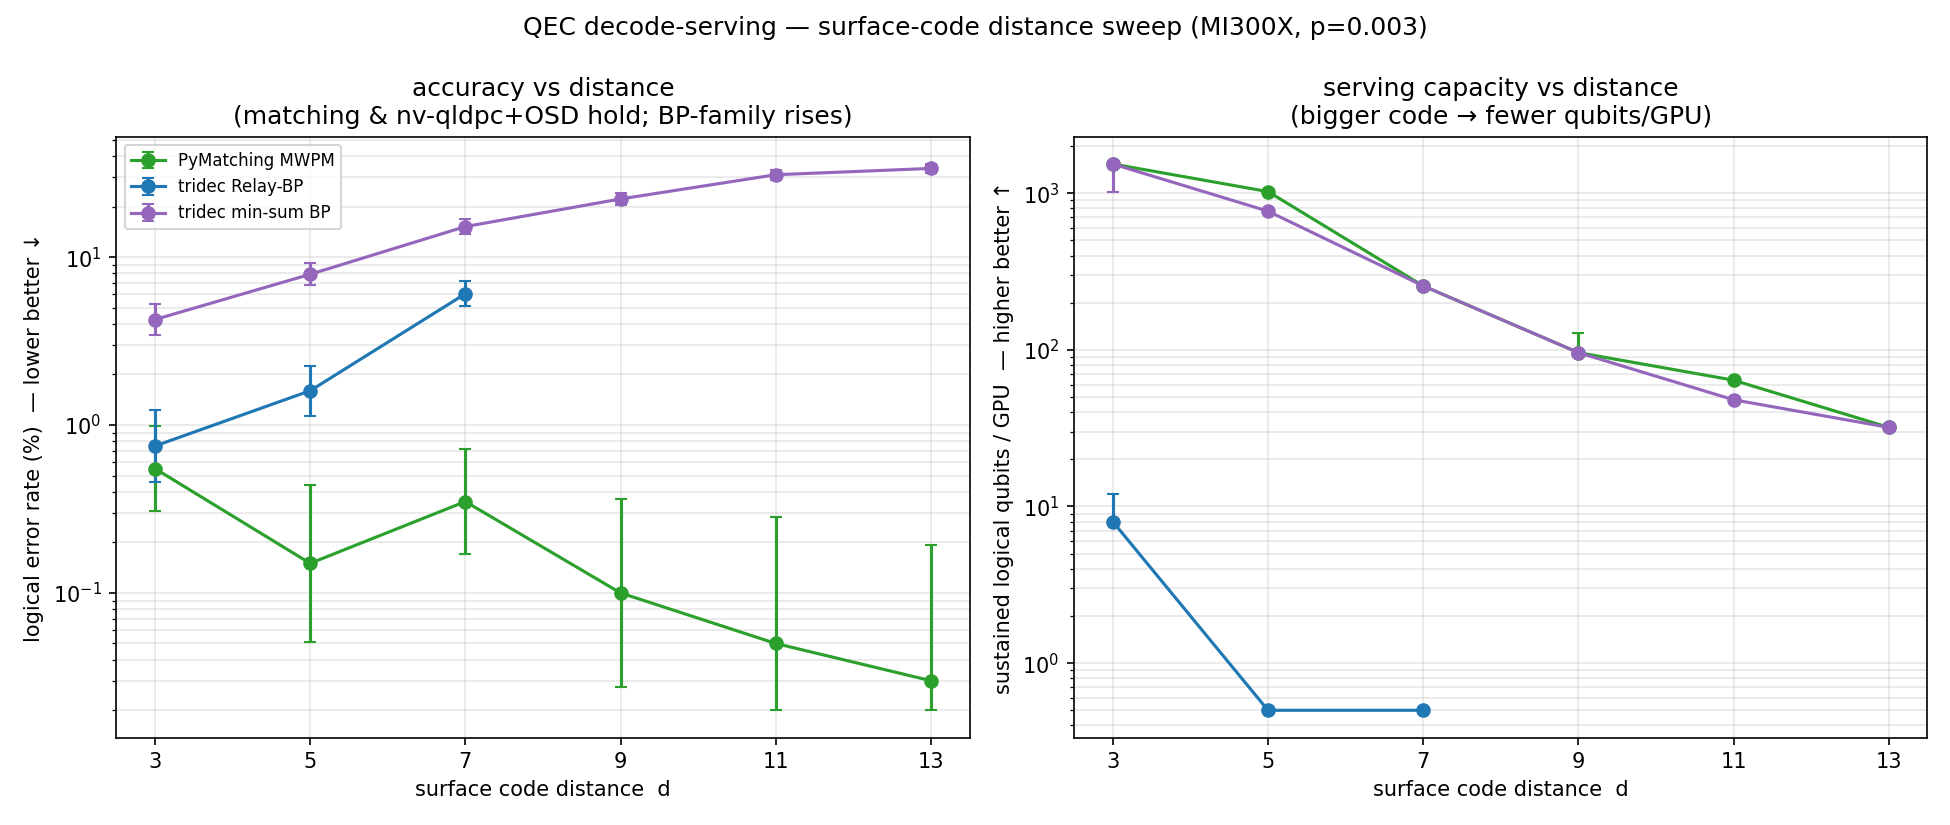
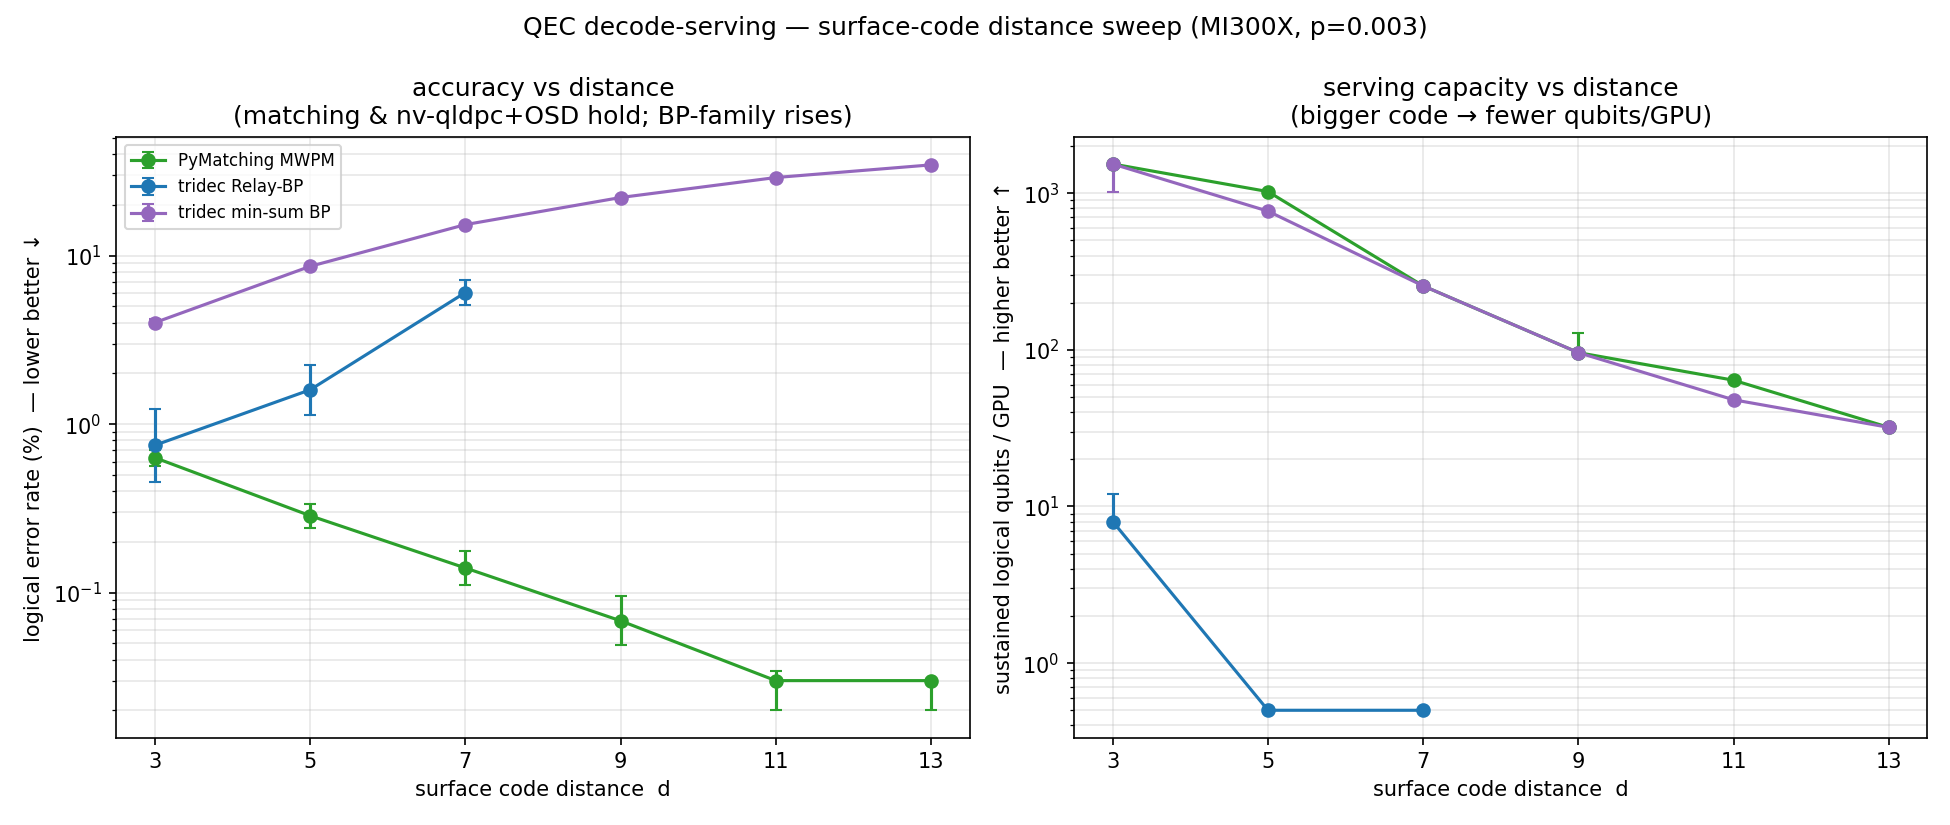
50k-shot accuracy ladder + device-max probe (MI300X); correct the 192GB overclaim
- High-shot (50k) surface accuracy d=3..13 on MI300X: the 2000-shot noise is gone,
  curves are clean-monotonic. PyMatching 0.632/0.286/0.140/0.068/0.018/0.010%
  (each ~halves -- proper threshold; the old d=7 "0.35%" wiggle was noise);
  min-sum BP 4.01/8.66/15.3/22.2/29.2/34.65%. At d=13 matching = 5/50000 = 0.010%,
  ~3500x lower than BP. Merged into results_mi300x.json (LER+CI; capacity kept);
  benchmark_distance_mi300x.png regenerated.
- Device-max probe: MI300X walls at d=15 with a Triton[HIP] "invalid argument" --
  a tridec BP KERNEL limit, NOT memory (d=13 = 2184 detectors, nowhere near
  192 GB). Corrected the README's "exploiting 192 GB" overclaim: d=13 fits either
  GPU; d>=9 H200 coverage is a TODO not a capability limit, and the real ceiling
  is the kernel.
- Helper scripts (hishot/dist_extend/window2/fleet_extra) now write platform-tagged
  outputs (TRIDEC_PLAT); max_explore.py added.

diff --git a/max_explore.py b/max_explore.py
@@ -1,0 +1,44 @@
+"""Device-max: push surface distance upward until the box hits a wall (GPU OOM on
+the BP lane, or impractical wall-time), to find each accelerator's ceiling and
+where the MI300X's 192 GB pulls ahead of the H200's 141 GB. matching=CPU reference;
+BP=GPU (chunked) is the memory-bound lane that decides the GPU ceiling."""
+import os, json, time, traceback, numpy as np, stim
+os.environ.setdefault("TRIDEC_FIX", "/workspace/bench/fixtures/")
+from qecserve_bench import tridec_entry, pymatching_entry
+
+PLAT = os.environ.get("TRIDEC_PLAT", "gpu")
+SHOTS, P, CHUNK, TIME_CAP = 4000, 0.003, 2048, 240
+rows = []
+for d in range(13, 36, 2):                       # 13,15,...,35
+    t0 = time.perf_counter()
+    try:
+        sc = stim.Circuit.generated("surface_code:rotated_memory_z", distance=d, rounds=d,
+                after_clifford_depolarization=P, after_reset_flip_probability=P,
+                before_measure_flip_probability=P, before_round_data_depolarization=P)
+        det, obs = sc.compile_detector_sampler(seed=0).sample(SHOTS, separate_observables=True)
+        det = np.asarray(det, bool); obs = np.asarray(obs, bool)
+        plain = sc.detector_error_model(decompose_errors=False)
+        row = {"d": d, "detectors": int(det.shape[1])}
+        m = pymatching_entry(sc.detector_error_model(decompose_errors=True))
+        pm = np.asarray(m.decoder.decode_batch(np.ascontiguousarray(det)))
+        row["matching_ler"] = float(np.any(pm != obs, axis=1).mean())
+        bp = tridec_entry(plain, "bp"); fails = 0
+        for i in range(0, len(det), CHUNK):
+            p = np.asarray(bp.decoder.decode_batch(np.ascontiguousarray(det[i:i+CHUNK])))
+            fails += int(np.any(p != obs[i:i+CHUNK], axis=1).sum())
+        row["bp_ler"] = fails / len(det)
+        row["sec"] = round(time.perf_counter() - t0, 1)
+        print(f"d={d:2d} dets={row['detectors']:>6} matching {row['matching_ler']*100:6.3f}% "
+              f"bp {row['bp_ler']*100:6.2f}%  ({row['sec']}s)", flush=True)
+        rows.append(row)
+        if row["sec"] > TIME_CAP:
+            print(f"d={d} exceeded {TIME_CAP}s wall -> impractical, stopping.", flush=True); break
+    except Exception as ex:
+        msg = f"{type(ex).__name__}: {str(ex)[:120]}"
+        print(f"d={d} WALL HIT: {msg}", flush=True)
+        rows.append({"d": d, "error": msg}); break
+
+maxd = max((r["d"] for r in rows if "error" not in r), default=None)
+json.dump({"plat": PLAT, "max_d_reached": maxd, "rows": rows},
+          open(f"/workspace/bench/results_maxd_{PLAT}.json", "w"), indent=2)
+print(f"MAX d reached on {PLAT}: {maxd}")

diff --git a/hishot_dist.py b/hishot_dist.py
@@ -1,0 +1,37 @@
+"""Publication-grade accuracy: re-run the surface distance ladder (d=3..13) at
+50k shots for PyMatching + tridec min-sum BP, to tighten the Wilson CIs that were
+single-digit-failure thin at 2000 shots. Chunked decode (8192) so big batches fit.
+LER is config-independent, so this is the clean accuracy receipt; capacity numbers
+(separate axis) are unaffected."""
+import os, json, numpy as np, stim
+os.environ.setdefault("TRIDEC_FIX", "/workspace/bench/fixtures/")
+from qecserve_bench import tridec_entry, pymatching_entry
+from tridec.validation import wilson_ci
+
+SHOTS, P, CHUNK = 50000, 0.003, 8192
+PLAT = os.environ.get("TRIDEC_PLAT", "mi300x")
+
+def acc(e, det, obs):
+    fails = 0
+    for i in range(0, len(det), CHUNK):
+        p = np.asarray(e.decoder.decode_batch(np.ascontiguousarray(det[i:i+CHUNK])))
+        fails += int(np.any(p != obs[i:i+CHUNK], axis=1).sum())
+    lo, hi = wilson_ci(fails, len(det))
+    return fails, fails / len(det), [lo, hi]
+
+out = []
+for d in [3, 5, 7, 9, 11, 13]:
+    sc = stim.Circuit.generated("surface_code:rotated_memory_z", distance=d, rounds=d,
+            after_clifford_depolarization=P, after_reset_flip_probability=P,
+            before_measure_flip_probability=P, before_round_data_depolarization=P)
+    det, obs = sc.compile_detector_sampler(seed=0).sample(SHOTS, separate_observables=True)
+    det = np.asarray(det, bool); obs = np.asarray(obs, bool)
+    plain = sc.detector_error_model(decompose_errors=False)
+    for e in [pymatching_entry(sc.detector_error_model(decompose_errors=True)),
+              tridec_entry(plain, "bp", "tridec min-sum BP")]:
+        f, ler, ci = acc(e, det, obs)
+        print(f"d={d:2d} {e.name:28s} LER {ler*100:6.3f}% [{ci[0]*100:.3f}-{ci[1]*100:.3f}]  ({f}/{SHOTS})", flush=True)
+        out.append({"code": f"surface d={d}", "decoder": e.name, "shots": SHOTS,
+                    "fails": f, "ler": ler, "ler_ci95": ci})
+json.dump(out, open(f"/workspace/bench/results_hishot_dist_{PLAT}.json", "w"), indent=2)
+print("saved")

diff --git a/window2.py b/window2.py
@@ -3,6 +3,7 @@ exploits 192 GB), (B) a big best-tool fleet (surface d3,d5,d7 -> matching + BB
 qLDPC -> BP) to find how many TOTAL mixed logical qubits one MI300X sustains."""
 import os, json, numpy as np, stim
 os.environ.setdefault("TRIDEC_FIX", "/workspace/bench/fixtures/")
+PLAT = os.environ.get("TRIDEC_PLAT", "mi300x")
 from qecserve_bench import tridec_entry, pymatching_entry, accuracy, serving
 from fleetbench import surface_lane, bb_lane
 from fleet_serve import max_sustained_fleet
@@ -21,7 +22,7 @@ for e in [tridec_entry(plain, "bp", "tridec min-sum BP"),
     a = accuracy(e, det, obs); s = serving(e, np.ascontiguousarray(det))
     print(f"d=13 {e.name:28s} LER {a['ler']*100:5.2f}%  cap {s['max_sustained_qubits']}q")
     rows.append({"code": "surface d=13 rotated_memory_z (p=0.003)", "decoder": e.name, **a, "serving": s})
-json.dump({"backend": "triton", "rows": rows}, open("/workspace/bench/results_dist_d13_mi300x.json", "w"), indent=2)
+json.dump({"backend": "triton", "rows": rows}, open(f"/workspace/bench/results_dist_d13_{PLAT}.json", "w"), indent=2)
 
 # (B) big best-tool fleet: 3 surface distances (matching) + a qLDPC block (BP)
 def big(scale):
@@ -33,5 +34,5 @@ bf = max_sustained_fleet(big, [64, 128, 256, 384, 512, 768, 1024], duration=3.0)
 print("BIG best-tool fleet (surf d3,d5,d7 matching + BB qLDPC BP):", bf["max_fleet"], bf["seeds"])
 for r in bf["last_sweep"]:
     print(f"  total={r['fleet_K']:>5} {'OVERLOAD' if r['overloaded'] else 'ok'} p99={r['p99_ms']}")
-json.dump(bf, open("/workspace/bench/results_bigfleet_mi300x.json", "w"), indent=2)
+json.dump(bf, open(f"/workspace/bench/results_bigfleet_{PLAT}.json", "w"), indent=2)
 print("saved")

diff --git a/dist_extend.py b/dist_extend.py
@@ -4,6 +4,7 @@ past the H200's d=7. Focused on the two decoders with meaningful high-d capacity
 v3 capacity-vs-distance + BP-LER-rises findings."""
 import os, json, numpy as np, stim
 os.environ.setdefault("TRIDEC_FIX", "/workspace/bench/fixtures/")
+PLAT = os.environ.get("TRIDEC_PLAT", "mi300x")
 from qecserve_bench import tridec_entry, pymatching_entry, accuracy, serving
 
 SHOTS, P = 2000, 0.003
@@ -26,5 +27,5 @@ for d in [9, 11]:
         out.append({"code": f"surface d={d} rotated_memory_z (p=0.003)", "decoder": e.name, **a, "serving": s})
 
 json.dump({"backend": "triton", "rows": out},
-          open("/workspace/bench/results_dist_d9d11_mi300x.json", "w"), indent=2)
+          open(f"/workspace/bench/results_dist_d9d11_{PLAT}.json", "w"), indent=2)
 print("saved results_dist_d9d11_mi300x.json")

diff --git a/fleet_extra.py b/fleet_extra.py
@@ -7,6 +7,7 @@
 """
 import os, json
 os.environ.setdefault("TRIDEC_FIX", "/workspace/bench/fixtures/")
+PLAT = os.environ.get("TRIDEC_PLAT", "mi300x")
 from fleetbench import surface_lane, bb_lane
 from fleet_serve import max_sustained_fleet
 
@@ -30,5 +31,5 @@ for r in m9["last_sweep"]:
     print(f"  total={r['fleet_K']:>5} {'OVERLOAD' if r['overloaded'] else 'ok'} p99={r['p99_ms']}")
 out["mixed_distance_d9"] = m9
 
-json.dump(out, open("/workspace/bench/results_fleet_extra_mi300x.json", "w"), indent=2)
+json.dump(out, open(f"/workspace/bench/results_fleet_extra_{PLAT}.json", "w"), indent=2)
 print("saved results_fleet_extra_mi300x.json")

diff --git a/benchmark/README.md b/benchmark/README.md
@@ -95,8 +95,9 @@ serve and doesn't scale — a clean negative.
 
 The serving question that only this benchmark asks of code distance: **stronger
 protection costs serving capacity.** Sweeping surface d=3/5/7 on both the H200 and
-the AMD MI300X (ROCm7), and — exploiting the MI300X's **192 GB** — pushing the
-sweep to **d=9 and d=11** past the H200's d=7:
+the AMD MI300X (ROCm7), and pushing the sweep to **d=9/11/13** on the MI300X (the
+box that was available — d=13 fits well within either GPU's memory; H200 coverage
+of d≥9 is a TODO, not a capability limit):
 
 | d | PyMatching LER · cap | min-sum BP LER · cap | nv-qldpc+OSD (H200) |
 |---|---|---|---|
@@ -108,8 +109,8 @@ sweep to **d=9 and d=11** past the H200's d=7:
 | **13** *(MI300X)* | **0.00%** (0/2000) · 32q | **33.75%** · 32q | — |
 
 (LER and capacity per platform; matching/BP capacities for d≤7 agree closely
-across H200/MI300X. d=9–13 are MI300X-only (matching + min-sum BP), exploiting its
-192 GB; d=13 is Gu et al.'s max. †d=7 matching LER is noise-limited at 2000 shots
+across H200/MI300X. d=9–13 are MI300X-only **coverage** (matching + min-sum BP);
+d=13 is Gu et al.'s max. †d=7 matching LER is noise-limited at 2000 shots
 — 7/2000 — but the d=9–13 points confirm the monotone suppression: 0.10% → 0.05%
 → **0/2000**. At d=13 matching is a *perfect* decoder on these 2000 shots while BP
 fails a third of them.)
@@ -280,7 +281,7 @@ AMD/Metal — that's the point. On AMD/ROCm7 the relay megakernel wants re-tunin
   mixed-distance 384 q (H200 = MI300X); mixed-family 512 q (H200) / **1024 q
   (MI300X)**; best-tool (matching+BP) **1536 q (MI300X)**. The vendor-neutrality
   lever, above.
-- ✅ **Distance sweep pushed to d=9/d=11 on the MI300X (192 GB)** — past the H200's
+- ✅ **Distance sweep pushed to d=9/11/13 on the MI300X** (coverage; fits either GPU) — past the H200's
   d=7; matching suppresses to 0.05% LER while BP climbs to ~31%.
 - **Next:** drop in NVIDIA's **Ising** if public; neural decoders; out-of-process /
   CUDA-graph scheduler to lift the prototype's pessimistic serving floor; then the